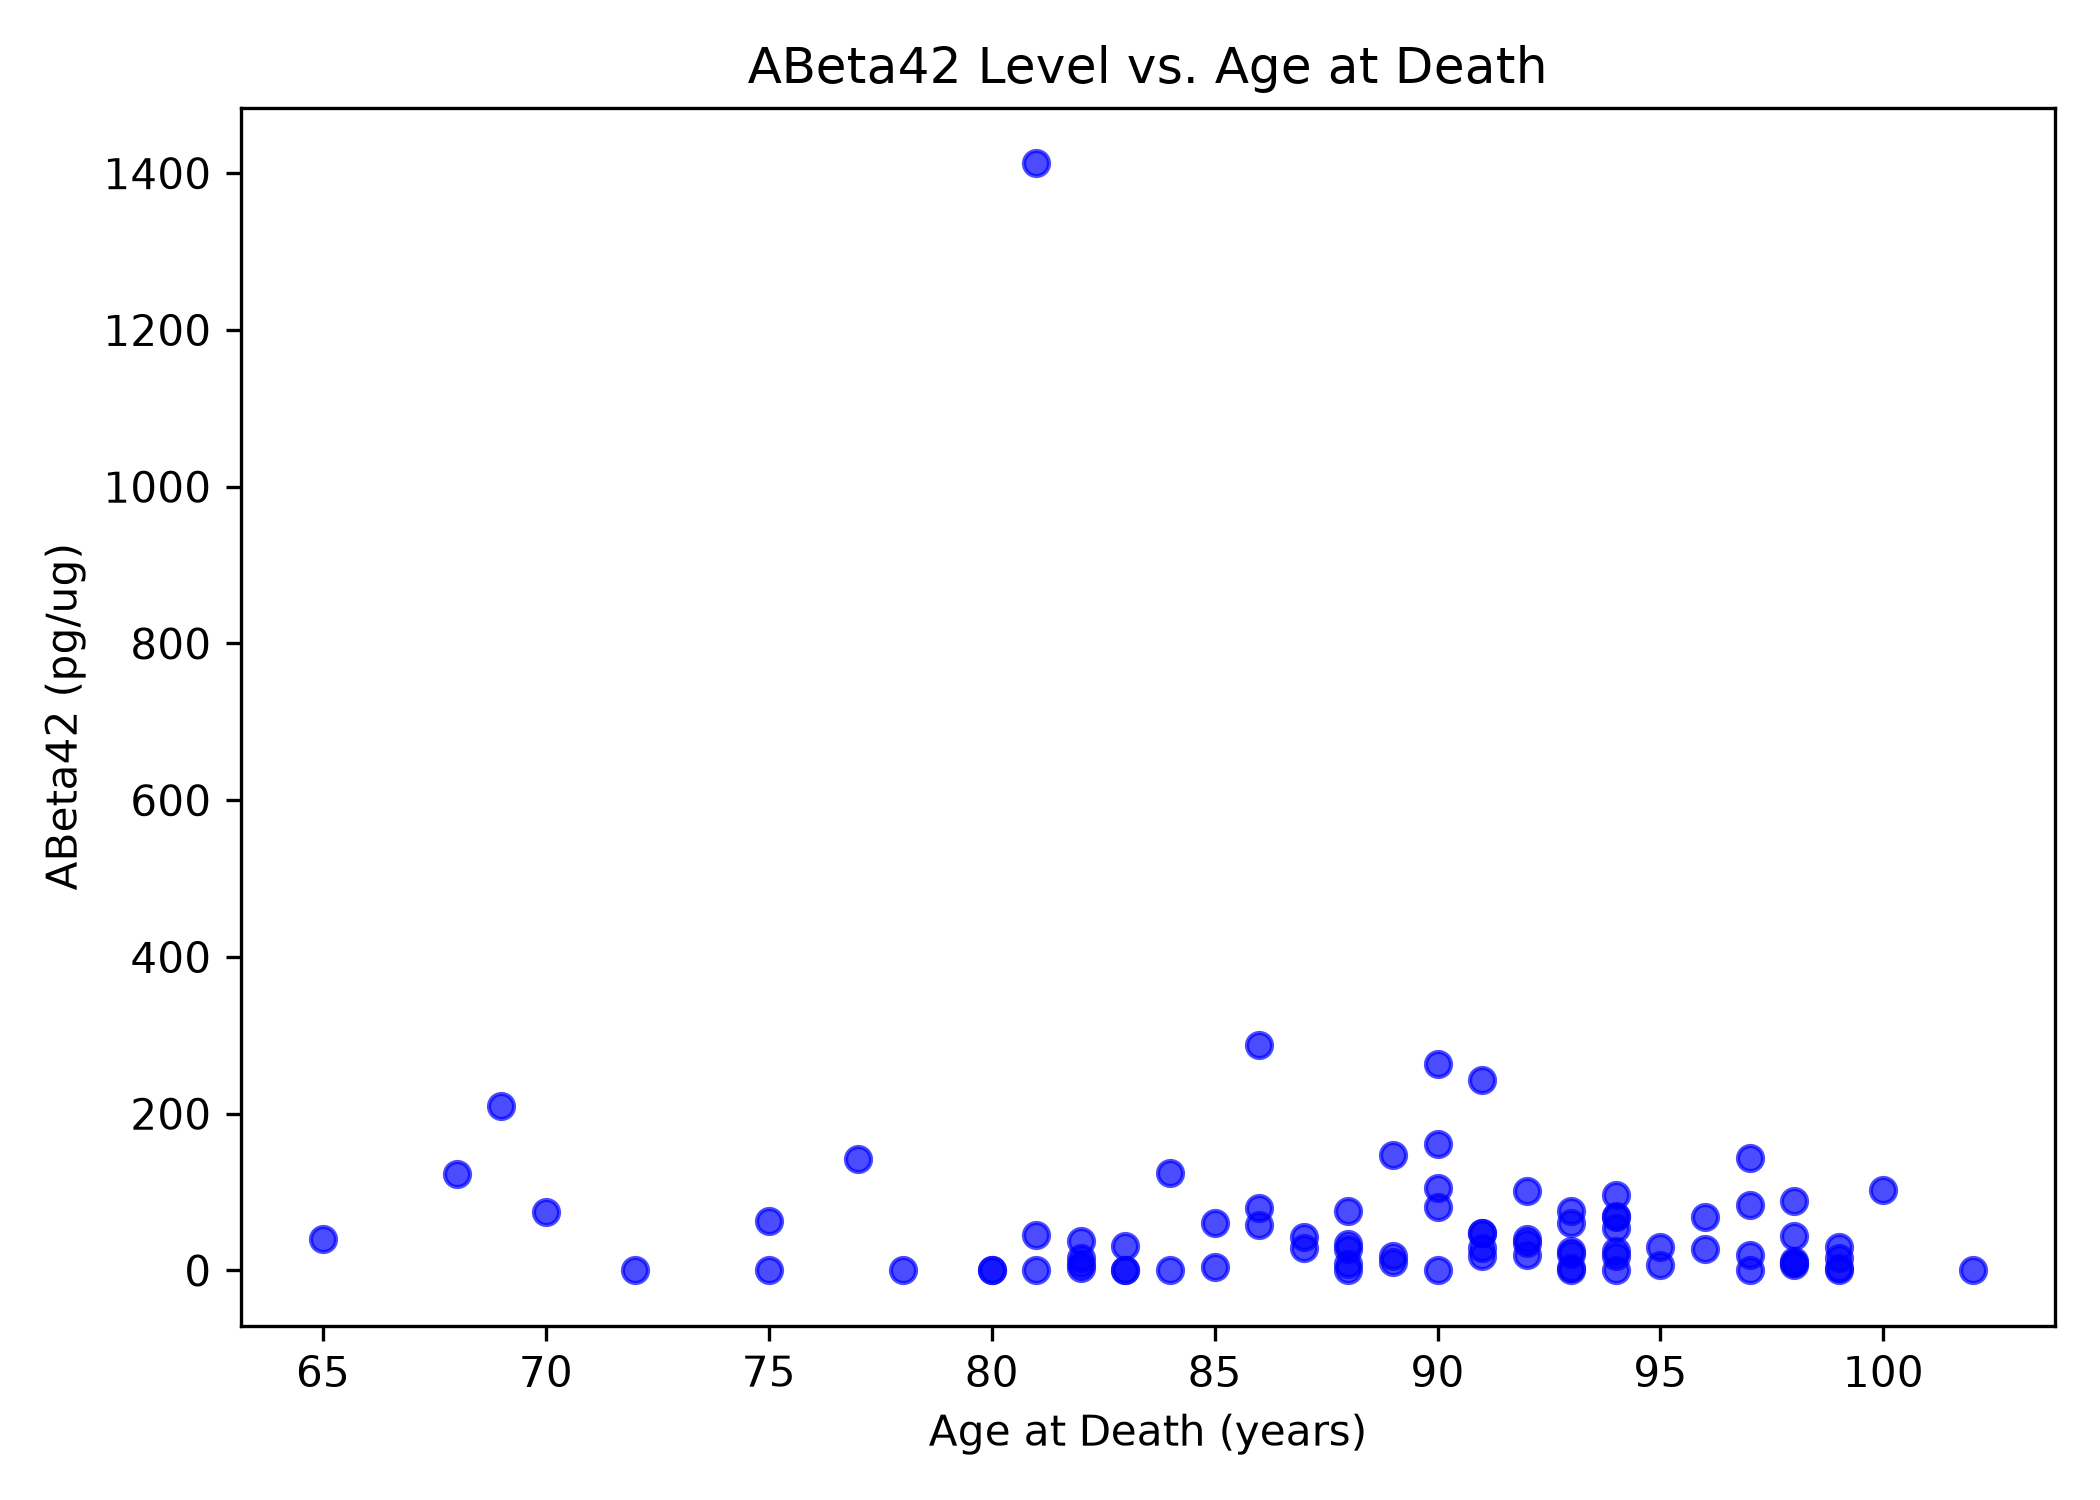
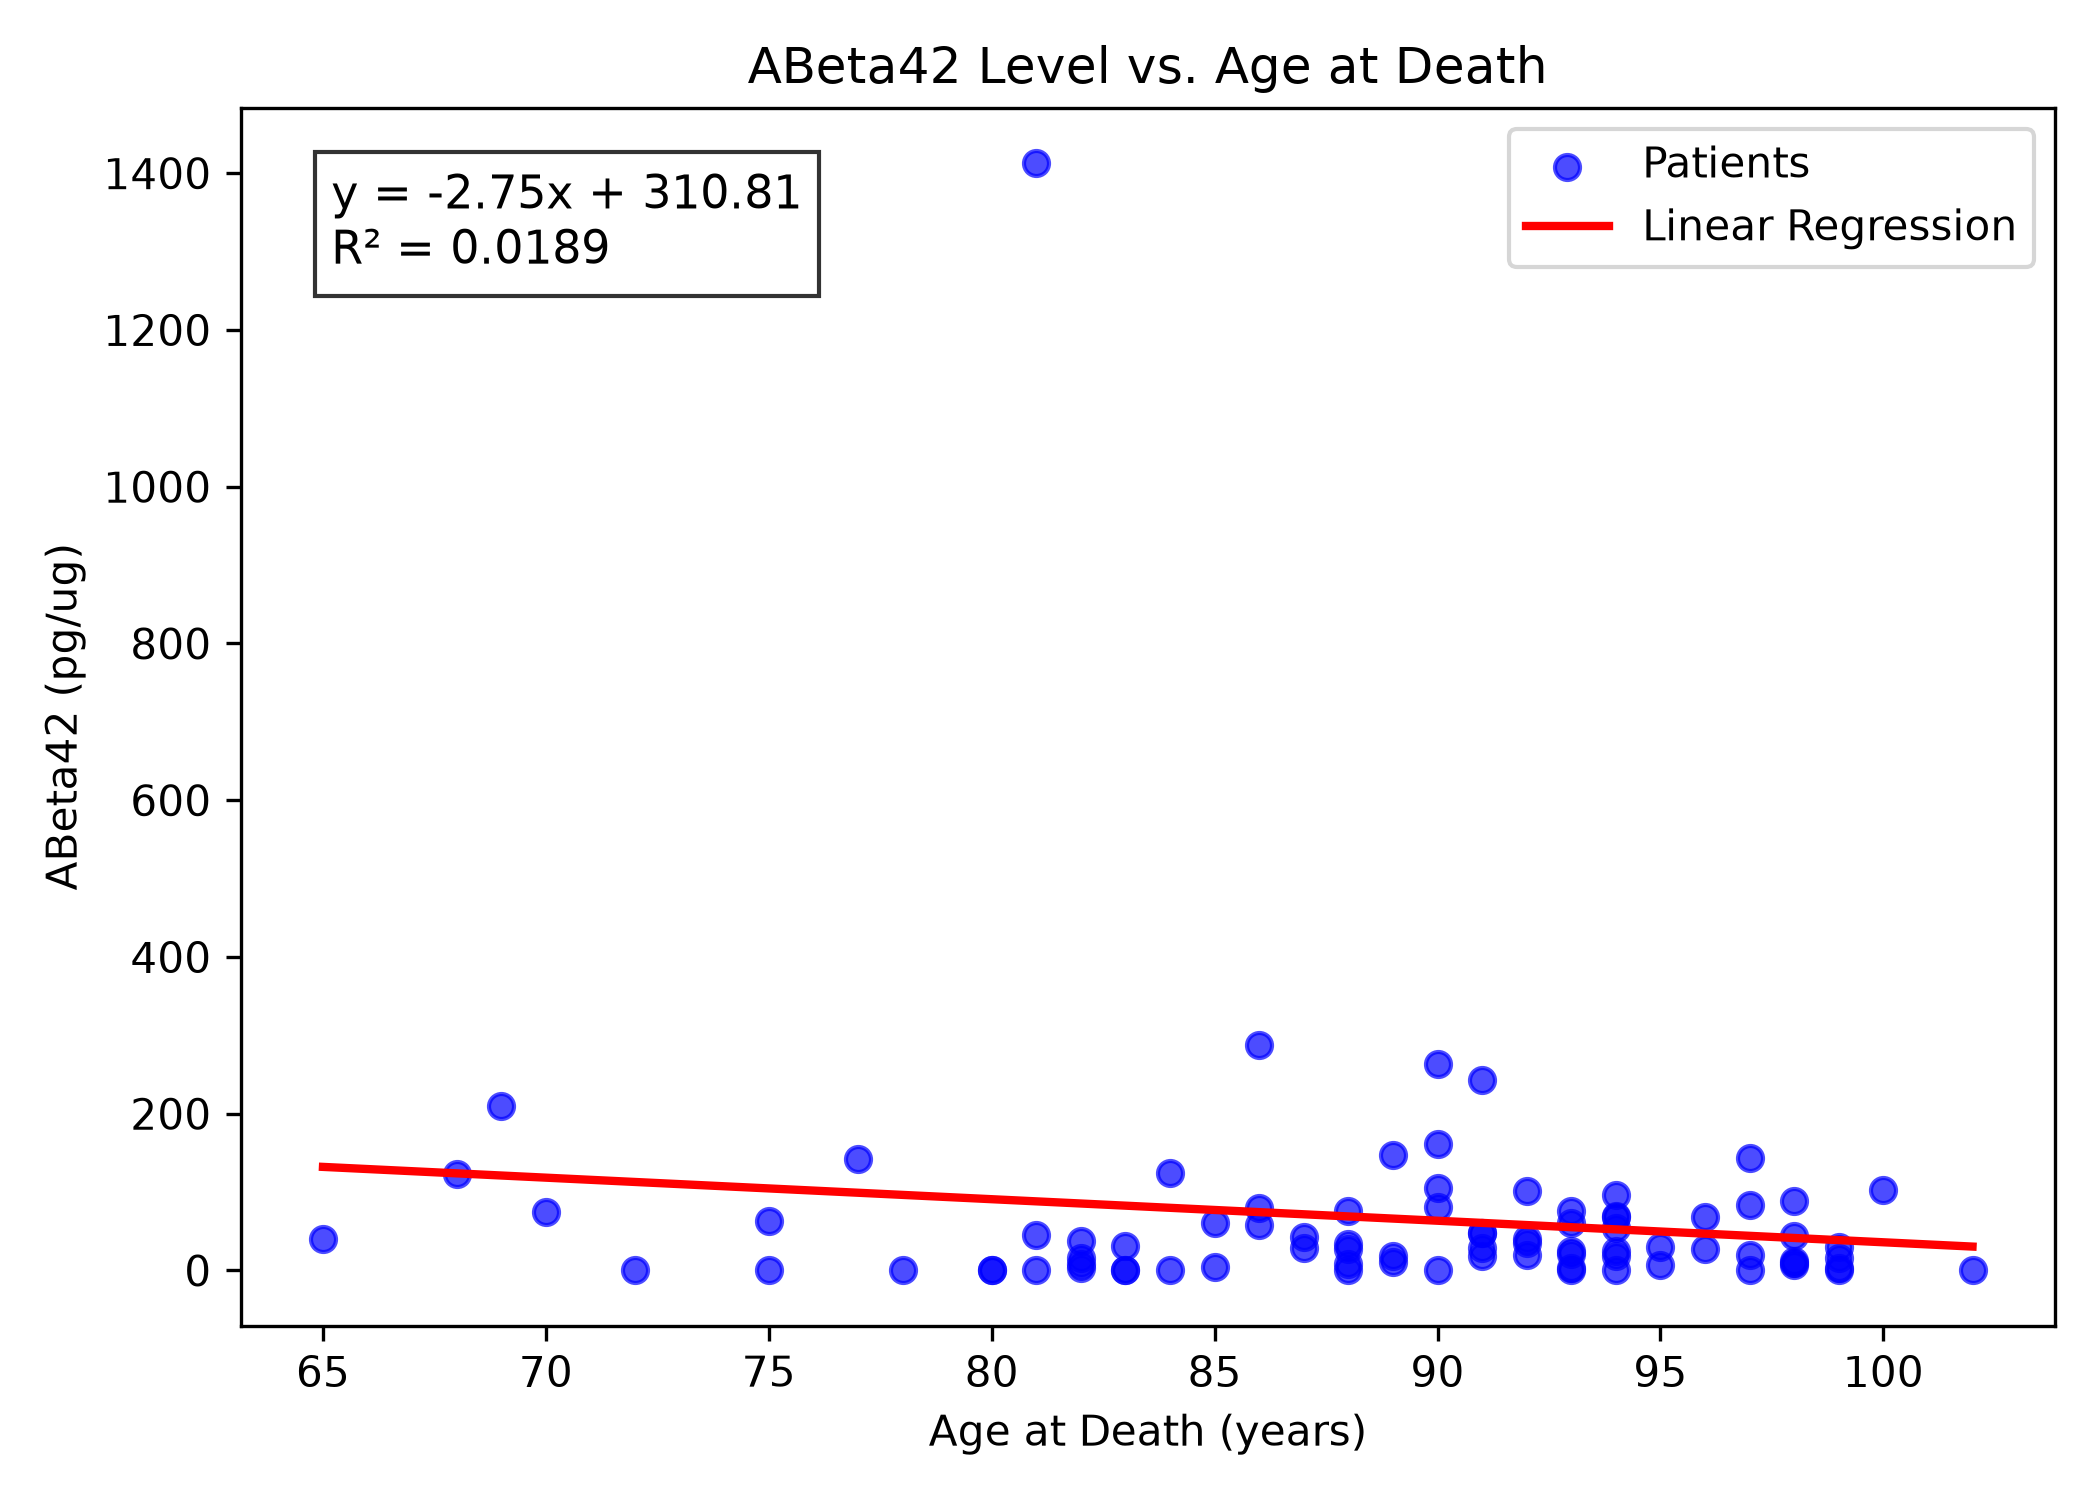
created linar regression for scatterplot

diff --git a/main_Cherry.py b/main_Cherry.py
@@ -6,6 +6,7 @@ import numpy as np
 import statistics
 from scipy import stats
 import pandas as pd
+from sklearn.linear_model import LinearRegression
 
 
 filename = "Metadata and Protein Data for Module 1.csv"
@@ -75,11 +76,66 @@ for patient in Patient.all_patients: # Store the age at death and ABeta42 values
     ages_at_death.append(patient.age_at_death)
     all_abeta42.append(patient.abeta42)
 
+t_stat, p_value = stats.ttest_ind(female_abeta42, male_abeta42)
+print(f"t-statistic: {t_stat:.2f}")
+print(f"p-value: {p_value:.4f}")
+if p_value < 0.05:
+    print("There is a statistically significant difference between female and male ABeta42 levels.")
+else:
+    print("There is no statistically significant difference between female and male ABeta42 levels.")
+
+ages_at_death_array = np.array(ages_at_death).reshape(-1, 1)
+
+model = LinearRegression()
+model.fit(ages_at_death_array, all_abeta42)
+
+predicted_abeta42 = model.predict(ages_at_death_array)
+
+slope = model.coef_[0]
+intercept = model.intercept_
+r_squared = model.score(ages_at_death_array, all_abeta42)
+
+print(f"\nRegression slope: {slope:.2f}")
+print(f"Regression intercept: {intercept:.2f}")
+print(f"R-squared value: {r_squared:.4f}")
+
 plt.figure(figsize=(7, 5))
-plt.scatter(ages_at_death, all_abeta42, color="blue", alpha=0.7)
+
+plt.scatter(
+    ages_at_death,
+    all_abeta42,
+    color="blue",
+    alpha=0.7,
+    label="Patients"
+)
+
+plt.plot(
+    ages_at_death,
+    predicted_abeta42,
+    color="red",
+    linewidth=2,
+    label="Linear Regression"
+)
+
+regression_text = (
+    f"y = {slope:.2f}x + {intercept:.2f}\n"
+    f"R² = {r_squared:.4f}"
+)
+
+plt.text(
+    0.05,
+    0.95,
+    regression_text,
+    transform=plt.gca().transAxes,
+    fontsize=11,
+    verticalalignment="top",
+    bbox=dict(facecolor="white", edgecolor="black", alpha=0.8)
+)
+
 plt.title("ABeta42 Level vs. Age at Death")
 plt.xlabel("Age at Death (years)")
 plt.ylabel("ABeta42 (pg/ug)")
+plt.legend()
 plt.tight_layout()
 plt.savefig("Cherry_scatter_plot.png", dpi=300)
 plt.show()
